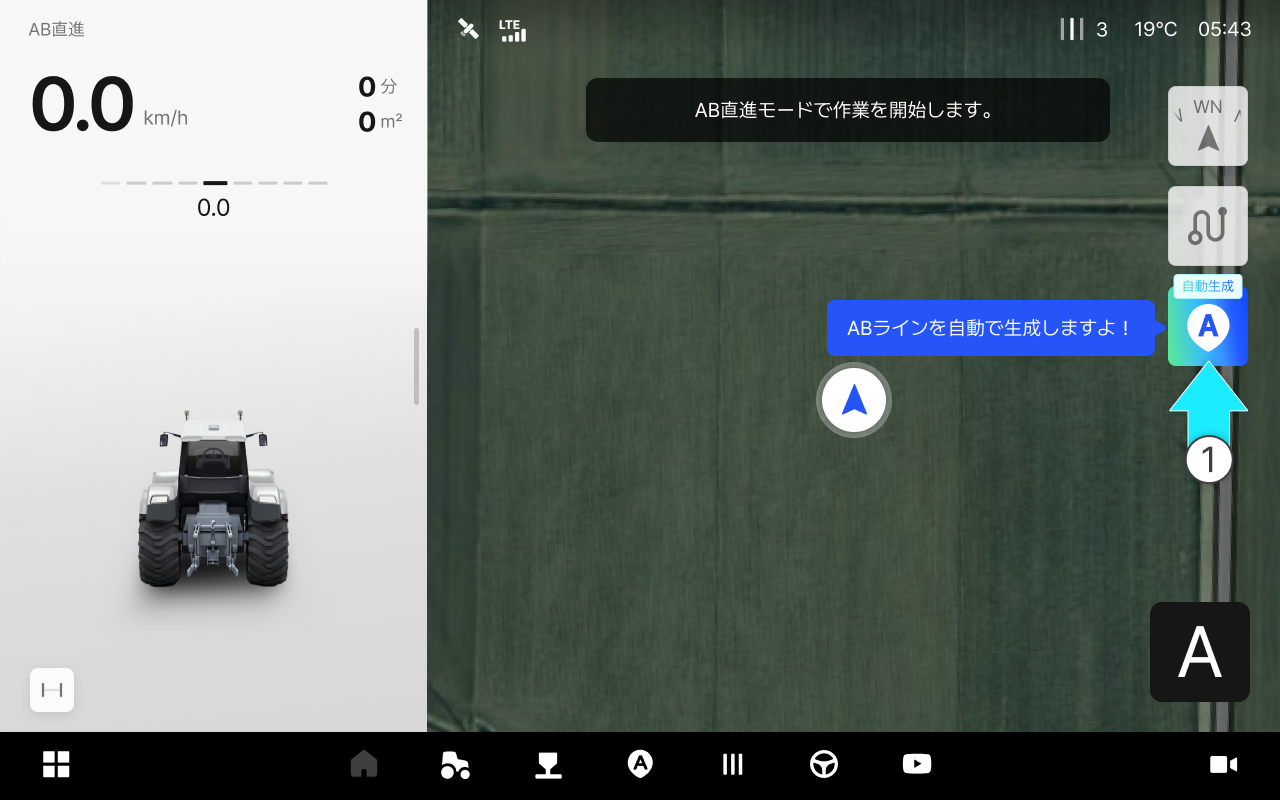
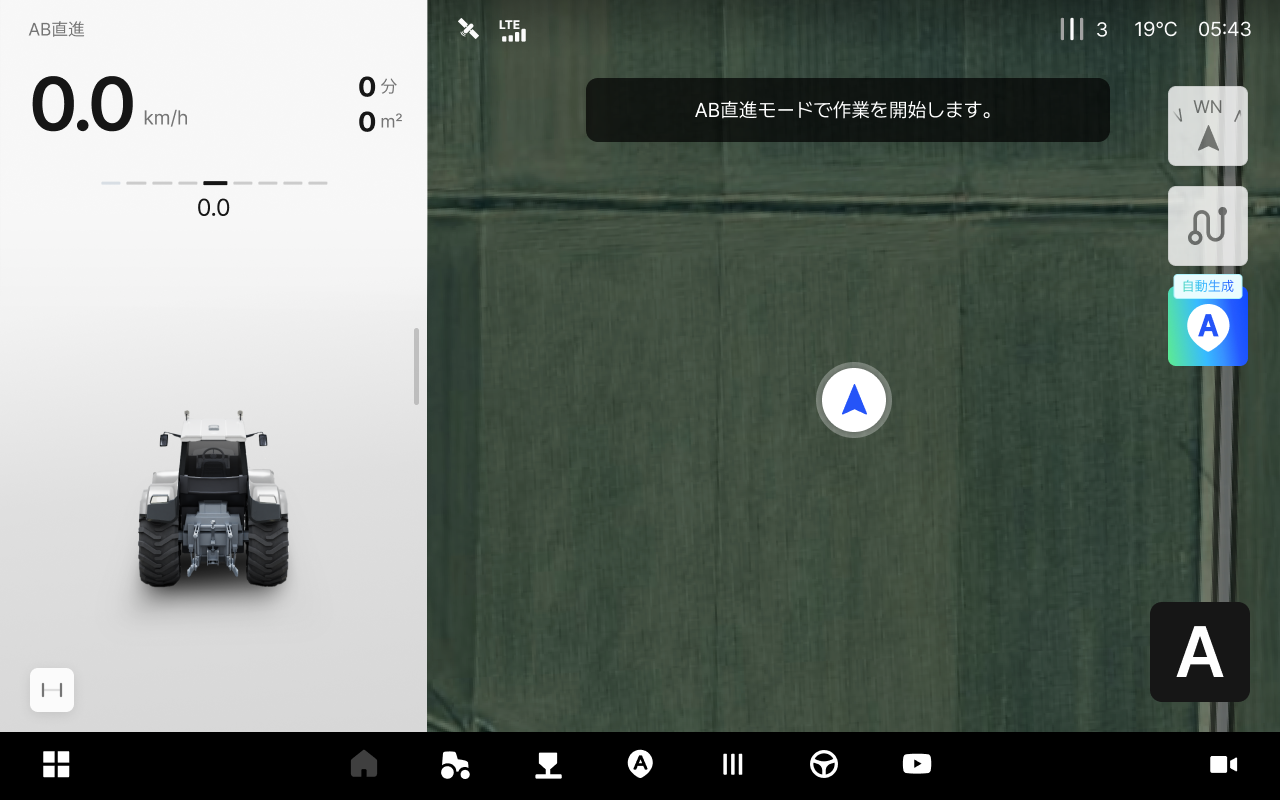
pluva-ion-usermanual-jp-10: No subject

Changed region(s): [[0.625, 0.375, 0.9062, 0.4688], [0.9062, 0.4375, 0.9688, 0.625], [0.9062, 0.7812, 0.9688, 0.8438]]

diff --git a/pluva-ion-usermanual-jp/usage/driving/ab-straight.md b/pluva-ion-usermanual-jp/usage/driving/ab-straight.md
@@ -59,23 +59,15 @@ AB直進モードで、<img src="../../.gitbook/assets/automatic-path-button.svg
 
 <figure><img src="../../.gitbook/assets/ab-automatic-path-explanation-1.png" alt=""><figcaption></figcaption></figure>
 
-{% hint style="info" %}
-生成された圃場がない場合は、ガイドに従ってすぐ圃場を登録できます。
-
-<img src="../../.gitbook/assets/automatic-path-nonefield.png" alt="" data-size="original">
+{% hint style="warning" %}
+필드없이 주행을 선택한 경우, AB라인 자동 생성 버튼은 노출되지않습니다.
 {% endhint %}
 {% endstep %}
 
 {% step %}
-圃場エリアが有効になり自動ABラインが生成されます。
+プレビューが表示されます。 必要に応じて設定を調整&#x3057;**\[確認]**&#x3092;タップしてください。
 
 <figure><img src="../../.gitbook/assets/ab-automatic-path-explanation-2.png" alt=""><figcaption></figcaption></figure>
-{% endstep %}
-
-{% step %}
-生成完了後、プレビューが表示されます。 必要に応じて設定を調整&#x3057;**\[確認]**&#x3092;タップしてください。
-
-<figure><img src="../../.gitbook/assets/ab-automatic-path-explanation-3.png" alt=""><figcaption></figcaption></figure>
 
 {% hint style="info" %}
 次の設定で細かい調整ができます。
@@ -104,6 +96,6 @@ AB直進モードで、<img src="../../.gitbook/assets/automatic-path-button.svg
 {% step %}
 <img src="../../.gitbook/assets/drive_ai-button.svg" alt="" data-size="original">**\[自動操舵]**&#x30DC;タンを押すと、生成された経路に沿って走行が開始されます。
 
-<figure><img src="../../.gitbook/assets/ab-automatic-path-explanation-4.png" alt=""><figcaption></figcaption></figure>
+<figure><img src="../../.gitbook/assets/ab-automatic-path-explanation-3.png" alt=""><figcaption></figcaption></figure>
 {% endstep %}
 {% endstepper %}

diff --git a/pluva-ion-usermanual-jp/usage/driving/route-planning-settings.md b/pluva-ion-usermanual-jp/usage/driving/route-planning-settings.md
@@ -73,6 +73,12 @@ ABカーブ
 
 <figure><img src="../../.gitbook/assets/autoplanning-explanation-2.png" alt=""><figcaption></figcaption></figure>
 {% endstep %}
+
+{% step %}
+주행할 필드를 선택 후 \[불러오기]을 누르면 해당 모드가 시작됩니다.
+
+<figure><img src="../../.gitbook/assets/autoplanning-explanation-3.png" alt=""><figcaption></figcaption></figure>
+{% endstep %}
 {% endstepper %}
 
 {% hint style="info" %}
@@ -94,10 +100,4 @@ ABカーブ
 案内に従って**倍速ターンをオンに設定**し、**\[走行開始]**&#x3092;押すと走行モードへのアクセスが完了します。
 
 <img src="../../.gitbook/assets/autoplanning-speedturn-modal.png" alt="" data-size="original">
-{% endhint %}
-
-{% hint style="info" %}
-2つ以上の圃場が登録されている場合には、走行モードを選択する前に、圃場の選択画面が表示されます。
-
-<img src="../../.gitbook/assets/autoplanning-two-field.png" alt="" data-size="original">
 {% endhint %}

diff --git a/pluva-ion-usermanual-jp/usage/driving/ab-curve.md b/pluva-ion-usermanual-jp/usage/driving/ab-curve.md
@@ -10,7 +10,7 @@ ABカーブ
 
 {% stepper %}
 {% step %}
-<img src="../../.gitbook/assets/a-button (1).svg" alt="" data-size="original"> をタップし、A点を生成します。
+<img src="../../.gitbook/assets/a-button.svg" alt="" data-size="original"> をタップし、A点を生成します。
 
 <figure><img src="../../.gitbook/assets/ab-curve-1 (1).png" alt=""><figcaption></figcaption></figure>
 {% endstep %}
@@ -22,7 +22,7 @@ ABカーブ
 {% endstep %}
 
 {% step %}
-<img src="../../.gitbook/assets/drive-button (1).svg" alt="" data-size="original">\[自動操舵の開始]をタップし、走行を開始します。
+<img src="../../.gitbook/assets/drive-button.svg" alt="" data-size="original">\[自動操舵の開始]をタップし、走行を開始します。
 
 <figure><img src="../../.gitbook/assets/ab-curve-3 (1).png" alt=""><figcaption></figcaption></figure>
 {% endstep %}
